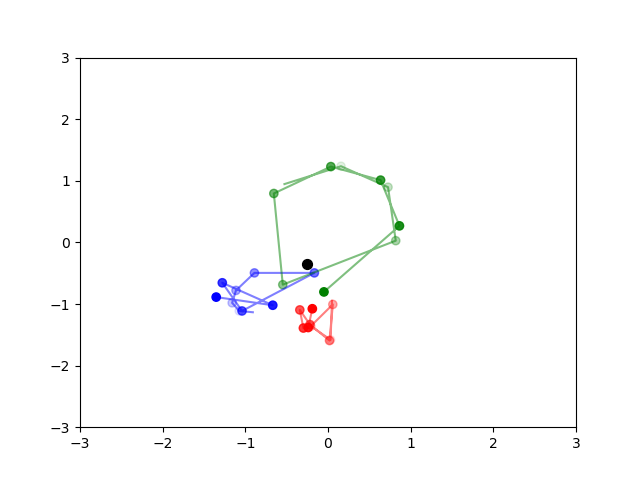
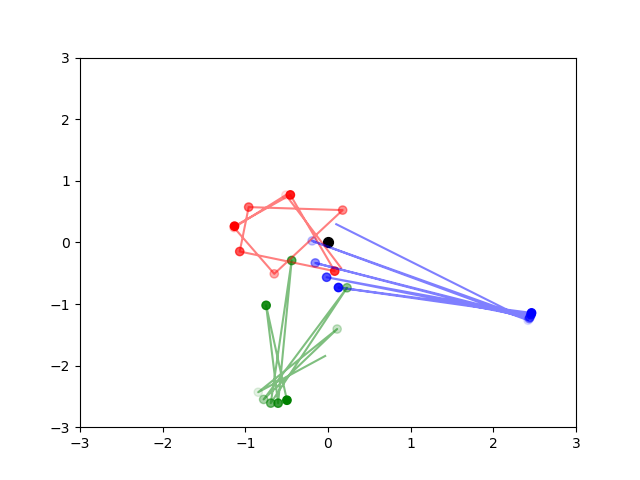
test_run

Changed region(s): [[0.3125, 0.375, 0.8438, 0.875], [0.4688, 0.3125, 0.5938, 0.375]]

diff --git a/test_run.py b/test_run.py
@@ -43,7 +43,7 @@ def random_p(r_in=0, r_out=3):
     
 def random_v(distance):
     r = 3
-    v=(np.random.rand()*(2*(constants.G*SMBH.mass/distance-constants.G*SMBH.mass/(r | units.pc)))).sqrt()
+    v=(((np.random.rand()+0.25)/1.25)*(2*(constants.G*SMBH.mass/distance-constants.G*SMBH.mass/(r | units.pc)))).sqrt()
     a=np.random.rand()*2*np.pi
     vx=v*np.cos(a)
     vy=v*np.sin(a)
@@ -77,6 +77,7 @@ for i in range(0, 1):
     BH3.velocity = (random_v(dist(BH3)))
     bodies1.add_particles(BH3)
     bodies2 = bodies1.copy()
+    bodies1.move_to_center()
     np.save('bodies_original', bodies2)
     
     converter = nbody_system.nbody_to_si(bodies1.mass.sum(), bodies1.position.length())
